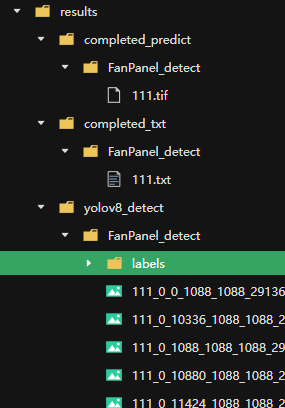
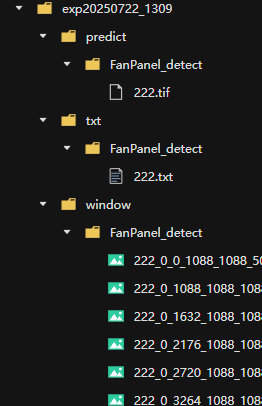
2.0 初版完成

diff --git a/predict.py b/predict.py
@@ -1,19 +1,20 @@
 import os
 import sys
 import argparse
+import datetime
 
 PROJECT_ROOT = os.path.abspath(os.path.join(os.getcwd(), "."))
 sys.path.append(PROJECT_ROOT)
 sys.path.append(os.path.join(PROJECT_ROOT, "utils"))
-from utils import slice_image
-from utils import convert_coordinates
-from utils import draw_predictions_on_image
-from utils import get_yolo_style_dir
+from utils import slice_image, convert_coordinates, draw_predictions_on_image
+
+def get_exp_dir(base_dir):
+    now = datetime.datetime.now().strftime('%Y%m%d_%H%M')
+    exp_dir = f"exp{now}"
+    return os.path.join(base_dir, exp_dir)
 
 def predict(
-    # clip args
     images_dir=os.path.join(PROJECT_ROOT, "images"),
-    outdir_slice_ims=os.path.join(PROJECT_ROOT, 'output'),
     project_name="Fan",
     im_ext=".tif",
     sliceHeight=1024,
@@ -22,38 +23,39 @@ def predict(
     slice_sep='_',
     overwrite=False,
     out_ext='.png',
-    # infer args
     model="yoloFan.pt",
-    conf=0.25,  # object confidence threshold for detection
-    iou=0.7,  # intersection over union (IoU) threshold for NMS
-    half=False,  # use half precision (FP16)
-    device=None,  # device to run on, i.e. cuda device=0/1/2/3 or device=cpu
-    show=False,  # show results if possible
-    save=True,  # save images with results
-    save_txt=True,  # save results as .txt file
-    save_conf=True,  # save results with confidence scores
-    save_crop=False,  # save cropped images with results
-    hide_labels=False,  # hide labels
-    hide_conf=False,  # hide confidence scores
-    max_det=300,  # maximum number of detections per image
-    vid_stride=False,  # video frame-rate stride
-    line_width=None,  # The line width of the bounding boxes. If None, it is scaled to the image size.
-    visualize=False,  # visualize model features
-    augment=False,  # apply image augmentation to prediction sources
-    agnostic_nms=False,  # class-agnostic NMS
-    retina_masks=False,  # use high-resolution segmentation masks
-    classes=None,  # filter results by class, i.e. class=0, or class=[0,2,3]
-    boxes=True,  # Show boxes in segmentation predictions
-    # regress args
-    output_file_dir=get_yolo_style_dir(os.path.join(PROJECT_ROOT, 'runs'), task='txt'),
+    conf=0.25,
+    iou=0.7,
+    half=False,
+    device=None,
+    show=False,
+    save=True,
+    save_txt=True,
+    save_conf=True,
+    save_crop=False,
+    hide_labels=False,
+    hide_conf=False,
+    max_det=300,
+    vid_stride=False,
+    line_width=None,
+    visualize=False,
+    augment=False,
+    agnostic_nms=False,
+    retina_masks=False,
+    classes=None,
+    boxes=True,
     iou_threshold=0.01,
     confidence_threshold=0.6,
     area_weight=5,
-    # draw args
     class_labels=[0],
     class_names=["Fan",],
-    completed_output_path=get_yolo_style_dir(os.path.join(PROJECT_ROOT, 'runs'), task='predict'),
 ):
+    # 统一时间戳目录
+    exp_dir = get_exp_dir(os.path.join(PROJECT_ROOT, 'runs'))
+    outdir_slice_ims = os.path.join(exp_dir, 'window')
+    output_file_dir = os.path.join(exp_dir, 'txt')
+    completed_output_path = os.path.join(exp_dir, 'predict')
+
     im_list = [z for z in os.listdir(images_dir) if z.lower().endswith(im_ext.lower())]
 
     if not os.path.exists(os.path.join(outdir_slice_ims, project_name)):
@@ -64,11 +66,9 @@ def predict(
         os.makedirs(os.path.join(outdir_slice_ims, project_name))
         print(f"{os.path.join(outdir_slice_ims, project_name)} 已存在，原有内容将被覆盖！")
 
-        # slice images
     for i, im_name in enumerate(im_list):
         im_path = os.path.join(images_dir, im_name)
         print("=========================== ", im_name, "--", i + 1, "/", len(im_list), " =========================== ")
-
         slice_image(
             im_path,
             project_name,
@@ -80,7 +80,7 @@ def predict(
             overwrite=overwrite,
             out_ext=out_ext,
         )
-        
+
     yolov8_predict_results_path = os.path.join(PROJECT_ROOT, 'results', 'yolov8_detect', project_name)
 
     if os.path.exists(yolov8_predict_results_path):
@@ -88,11 +88,11 @@ def predict(
         import logging
         shutil.rmtree(yolov8_predict_results_path)
         logging.warning(f"检测结果路径: {yolov8_predict_results_path} 已存在，原有内容将被覆盖！")
-        
+
     predict_shell = (
-        'yolo predict model={} source={} project={} name={} conf={} iou={} half={} device={} show={} ' \
-        'save={} save_txt={} save_conf={} save_crop={} hide_labels={} hide_conf={} ' \
-        'max_det={} vid_stride={} line_width={} visualize={} augment={} agnostic_nms={} ' \
+        'yolo predict model={} source={} project={} name={} conf={} iou={} half={} device={} show={} '
+        'save={} save_txt={} save_conf={} save_crop={} hide_labels={} hide_conf={} '
+        'max_det={} vid_stride={} line_width={} visualize={} augment={} agnostic_nms={} '
         'retina_masks={} classes={} boxes={}'.format(
             model,
             os.path.join(outdir_slice_ims, project_name),
@@ -141,17 +141,16 @@ def predict(
         image_name = os.path.basename(txt_regress_path).split('.')[0]
         image_path = os.path.join(images_dir, image_name + im_ext)
         draw_predictions_on_image(
-        image_path=image_path,
-        results_file_path=txt_regress_path,
-        class_labels=class_labels,
-        class_names=class_names,
-        completed_output_path=os.path.join(completed_output_path, project_name),
+            image_path=image_path,
+            results_file_path=txt_regress_path,
+            class_labels=class_labels,
+            class_names=class_names,
+            completed_output_path=os.path.join(completed_output_path, project_name),
         )
 
 if __name__ == '__main__':
     parser = argparse.ArgumentParser()
-    parser.add_argument("--images_dir", type=str, default=os.path.join(PROJECT_ROOT, 'image'))
-    parser.add_argument("--outdir_slice_ims", type=str, default=os.path.join(PROJECT_ROOT, 'dataset', 'predict', 'slice_images'))
+    parser.add_argument("--images_dir", type=str, default=os.path.join(PROJECT_ROOT, 'images'))
     parser.add_argument("--project_name", type=str, default="FanPanel_detect")
     parser.add_argument("--im_ext", type=str, default=".tif")
     parser.add_argument("--sliceHeight", type=int, default=1088)
@@ -160,20 +159,20 @@ if __name__ == '__main__':
     parser.add_argument("--slice_sep", type=str, default="_")
     parser.add_argument("--overwrite", type=bool, default=False)
     parser.add_argument("--out_ext", type=str, default=".png")
-    parser.add_argument("--model", type=str, default="yoloFan.pt")  # path to the model file
-    parser.add_argument("--conf", type=float, default=0.25)  # object confidence threshold for detection
-    parser.add_argument("--iou", type=float, default=0.7)  # intersection over union (IoU) threshold for NMS
-    parser.add_argument("--half", type=bool, default=False)  # use FP16 half-precision inference
-    parser.add_argument("--device", type=str, default=None)  # cuda device, i.e. 0 or 0,1,2,3 or
-    parser.add_argument("--show", type=bool, default=False)  # show results
-    parser.add_argument("--save", type=bool, default=True)  # save images with results
-    parser.add_argument("--save_txt", type=bool, default=True)  # save results"
+    parser.add_argument("--model", type=str, default="yoloFan.pt")
+    parser.add_argument("--conf", type=float, default=0.25)
+    parser.add_argument("--iou", type=float, default=0.7)
+    parser.add_argument("--half", type=bool, default=False)
+    parser.add_argument("--device", type=str, default=None)
+    parser.add_argument("--show", type=bool, default=False)
+    parser.add_argument("--save", type=bool, default=True)
+    parser.add_argument("--save_txt", type=bool, default=True)
     parser.add_argument("--save_conf", type=bool, default=True)
-    parser.add_argument("--save_crop", type=bool, default=False)  # save cropped prediction boxes
-    parser.add_argument("--hide_labels", type=bool, default=False)  # hide labels
+    parser.add_argument("--save_crop", type=bool, default=False)
+    parser.add_argument("--hide_labels", type=bool, default=False)
     parser.add_argument("--hide_conf", type=bool, default=False)
-    parser.add_argument("--max_det", type=int, default=300)  # maximum detections per image
-    parser.add_argument("--vid_stride", type=bool, default=False)  # video frame-rate stride
+    parser.add_argument("--max_det", type=int, default=300)
+    parser.add_argument("--vid_stride", type=bool, default=False)
     parser.add_argument("--line_width", type=float, default=None)
     parser.add_argument("--visualize", type=bool, default=False)
     parser.add_argument("--augment", type=bool, default=False)
@@ -181,15 +180,10 @@ if __name__ == '__main__':
     parser.add_argument("--retina_masks", type=bool, default=False)
     parser.add_argument("--classes", type=int, nargs="+", default=None)
     parser.add_argument("--boxes", type=bool, default=True)
-    parser.add_argument("--output_file_dir", type=str, default=os.path.join(PROJECT_ROOT, 'results', 'completed_txt'))
     parser.add_argument("--iou_threshold", type=float, default=0.01)
     parser.add_argument("--confidence_threshold", type=float, default=0.5)
     parser.add_argument("--area_weight", type=float, default=5)
     parser.add_argument("--class_labels", type=int, nargs="+", default=[0])
-    parser.add_argument("--class_names", type=str, nargs="+", default=[
-            "Fan",
-        ])
-    parser.add_argument("--completed_output_path", type=str, default=os.path.join(PROJECT_ROOT, 'results', 'completed_predict'))
-
-    agrs = parser.parse_args()
-    predict(**vars(agrs))
+    parser.add_argument("--class_names", type=str, nargs="+", default=["Fan"])
+    args = parser.parse_args()
+    predict(**vars(args))

diff --git a/utils/draw.py b/utils/draw.py
@@ -42,7 +42,7 @@ def draw_predictions_on_image(
         # 支持有经纬度的格式
         if len(line) >= 8:
             class_label, x, y, w, h, conf, lon, lat = map(float, line[:8])
-            lonlat_str = f"{lon:.2f},{lat:.2f}"
+            lonlat_str = f"{lon:.4f},{lat:.4f}"
         else:
             class_label, x, y, w, h, conf = map(float, line[:6])
             lonlat_str = ""
@@ -80,8 +80,8 @@ def draw_predictions_on_image(
                 lon_val, lat_val = map(float, lonlat_str.split(','))
                 ns = 'N' if lat_val >= 0 else 'S'
                 ew = 'E' if lon_val >= 0 else 'W'
-                lat_fmt = f"{ns}:{abs(lat_val):.2f}"
-                lon_fmt = f"{ew}:{abs(lon_val):.2f}"
+                lat_fmt = f"{ns}:{abs(lat_val):.4f}"
+                lon_fmt = f"{ew}:{abs(lon_val):.4f}"
                 nswe_str = f"{lat_fmt} {lon_fmt}"
             except Exception:
                 nswe_str = lonlat_str

diff --git a/utils/convert.py b/utils/convert.py
@@ -110,7 +110,7 @@ def convert_coordinates(
             for line in nms_output_lines:
                 # line: [class, x, y, w, h, conf, lon, lat]
                 if isinstance(line, (list, tuple)) and len(line) >= 8:
-                    f.write(f"{line[0]} {line[1]:.2f} {line[2]:.2f} {line[3]:.2f} {line[4]:.2f} {line[5]:.2f} {line[6]:.2f} {line[7]:.2f}\n")
+                    f.write(f"{line[0]} {line[1]:.2f} {line[2]:.2f} {line[3]:.2f} {line[4]:.2f} {line[5]:.2f} {line[6]:.4f} {line[7]:.4f}\n")
                 else:
                     f.write(str(line))
         print(f"图片 {key} 的预测txt结果已保存至: {output_file_path}")

diff --git a/utils/nms.py b/utils/nms.py
@@ -128,7 +128,6 @@ def apply_nms(
             top = float(y - h / 2)
             right = float(x + w / 2)
             bottom = float(y + h / 2)
-            print(f"计算得到的边界框: left={left}, top={top}, right={right}, bottom={bottom}")
 
             # Add the class ID, score, and box coordinates to the respective lists
             class_ids.append(class_id)

diff --git a/utils/yoloStyle.py b/utils/yoloStyle.py
@@ -1,3 +1,4 @@
+import os
 import datetime
 
 def get_yolo_style_dir(base_dir, task='detect'):

diff --git a/README.md b/README.md
@@ -65,4 +65,9 @@ python predict.py --images_dir ./images --im_ext .tif --model ./yoloFan.pt
 
 ## 输出结果示例：
 ![image-example](./assets/img.png)
+
 说明：
+- 输出最后保存在根目录的`runs/exp`文件夹下，`exp`后面的数字为检测时的时间戳。
+- `predict`文件夹存储的是带目标检测框以及坐标的`tif`文件。
+- `txt`文件夹存储的是`predict`文件夹中`tif`文件的检测数据（包含经纬度）。
+- `window`文件夹存储的是分割后进行检测的图像，并且包含每张图像的`label`文件。
